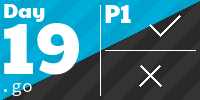
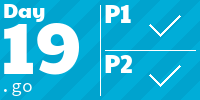
2024 Day 25

diff --git a/2024/day25/main.go b/2024/day25/main.go
@@ -1,0 +1,55 @@
+package main
+
+import (
+	"fmt"
+	"strings"
+
+	"github.com/xlzior/aoc2024/utils"
+)
+
+func parseInput() ([][5]int, [][5]int) {
+	sections := utils.ReadSections()
+	locks := make([][5]int, 0)
+	keys := make([][5]int, 0)
+
+	for _, s := range sections {
+		sec := strings.Split(s, "\n")
+		lock := [5]int{-1, -1, -1, -1, -1}
+		key := [5]int{-1, -1, -1, -1, -1}
+		for r, row := range sec {
+			for c, cell := range row {
+				if cell == '#' {
+					lock[c] = r
+					if key[c] < 0 {
+						key[c] = 6 - r
+					}
+				}
+			}
+		}
+		if sec[0] == "#####" {
+			locks = append(locks, lock)
+		} else {
+			keys = append(keys, key)
+		}
+	}
+	return locks, keys
+}
+
+func main() {
+	locks, keys := parseInput()
+	part1 := 0
+	for _, lock := range locks {
+		for _, key := range keys {
+			fit := true
+			for i := 0; i < 5; i++ {
+				if lock[i]+key[i] > 5 {
+					fit = false
+				}
+			}
+			if fit {
+				part1++
+			}
+		}
+	}
+	fmt.Println("Part 1:", part1)
+}

diff --git a/README.md b/README.md
@@ -1,9 +1,9 @@
 <!-- AOC TILES BEGIN -->
 <h1 align="center">
-  Advent of Code - 312/500 ⭐
+  Advent of Code - 314/500 ⭐
 </h1>
 <h1 align="center">
-  2024 - 34 ⭐ - Go
+  2024 - 36 ⭐ - Go
 </h1>
 <a href="2024/day01/main.go">
   <img src=".aoc_tiles/tiles/2024/01.png" width="161px">
@@ -73,6 +73,12 @@
 </a>
 <a href="2024/day23/main.go">
   <img src=".aoc_tiles/tiles/2024/23.png" width="161px">
+</a>
+<a href="None">
+  <img src=".aoc_tiles/tiles/2024/24.png" width="161px">
+</a>
+<a href="2024/day25/main.go">
+  <img src=".aoc_tiles/tiles/2024/25.png" width="161px">
 </a>
 <h1 align="center">
   2023 - 50 ⭐ - Scala
